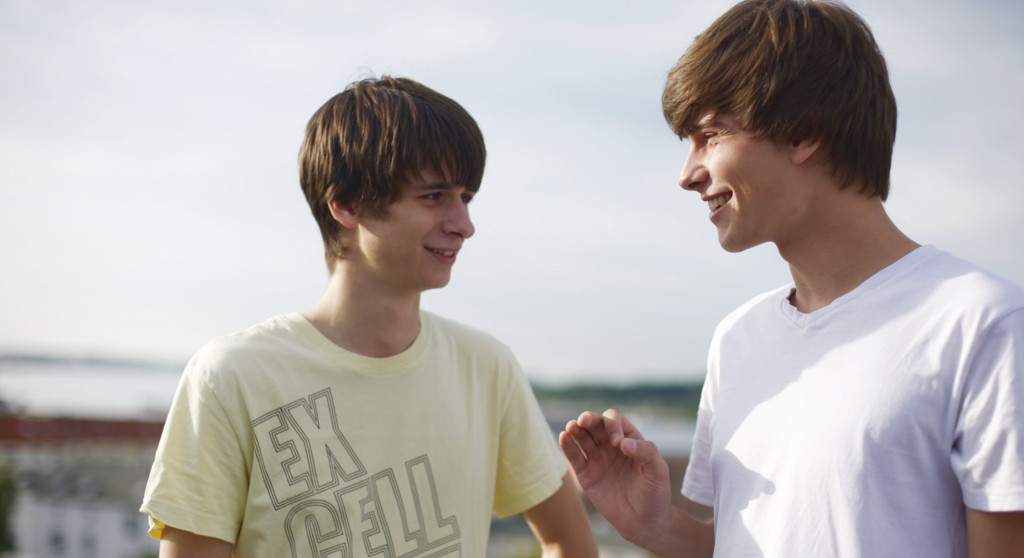
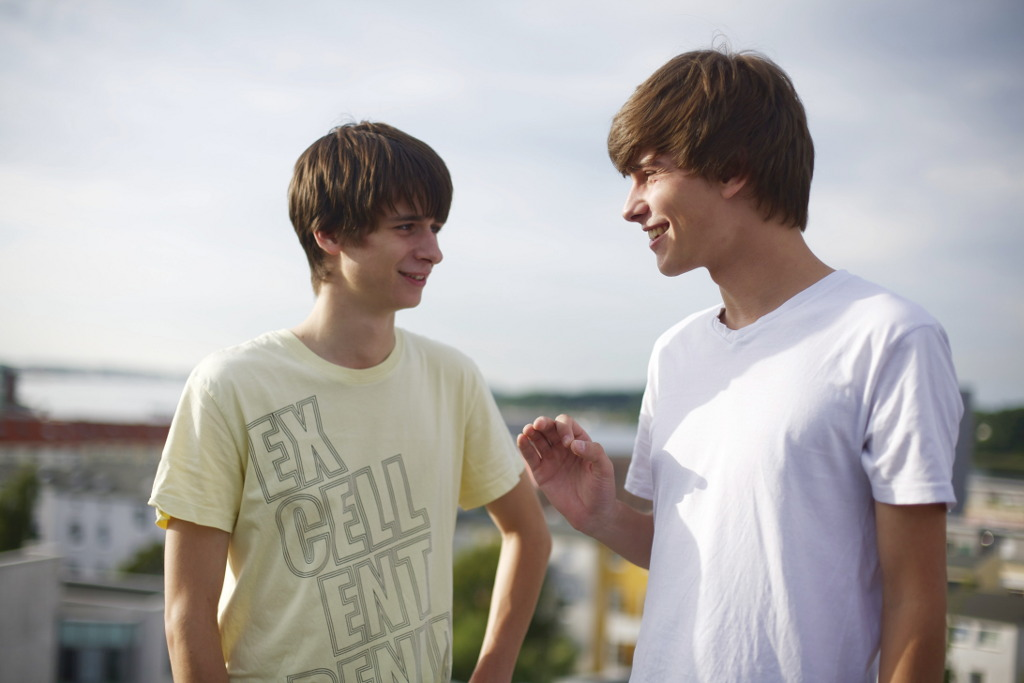
new about pic

diff --git a/oberthmedia/homepage/static/homepage/style/style.css b/oberthmedia/homepage/static/homepage/style/style.css
@@ -475,7 +475,7 @@ nav {
             position: relative;
             z-index: 1;
             width: 100%;
-            height: 558px;
+            height: 683px;
             background-image: url("img/about.jpg");
             background-repeat: no-repeat;
             background-size: 100%;
